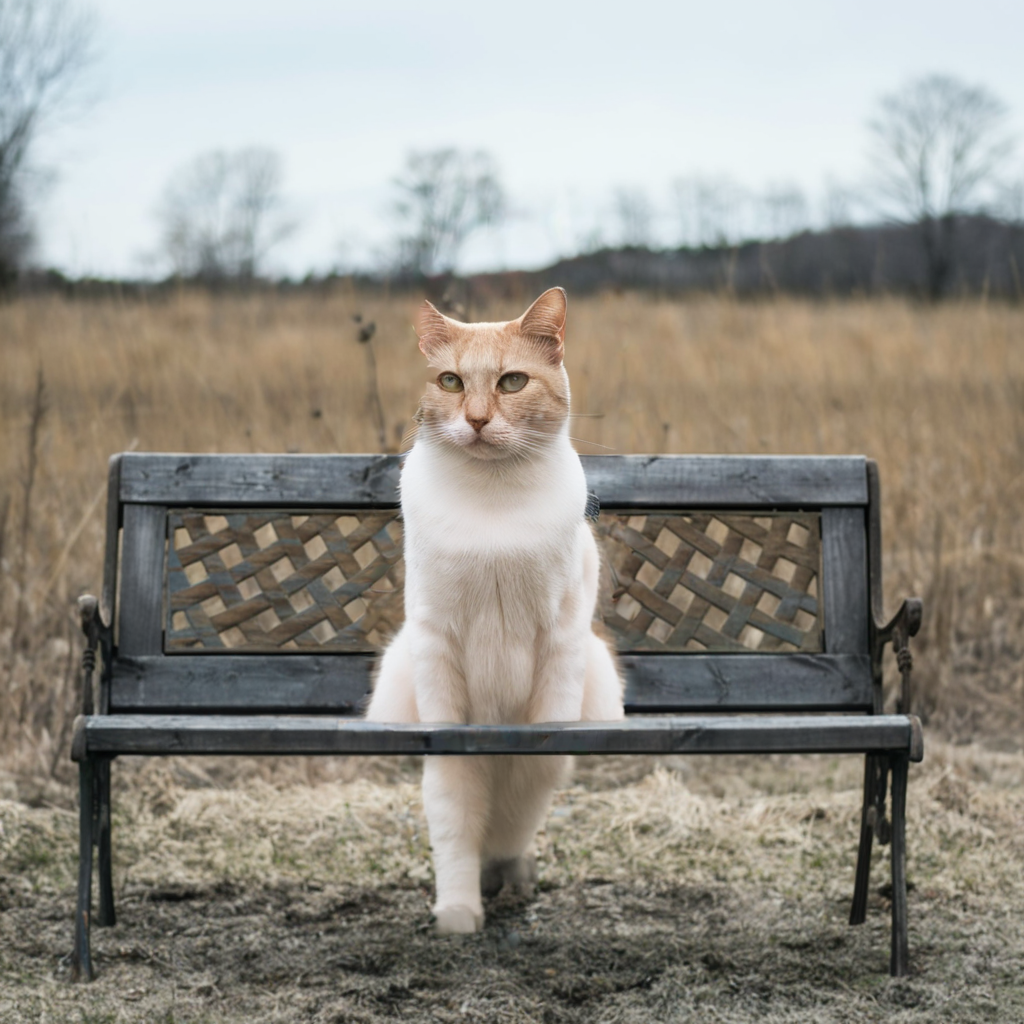
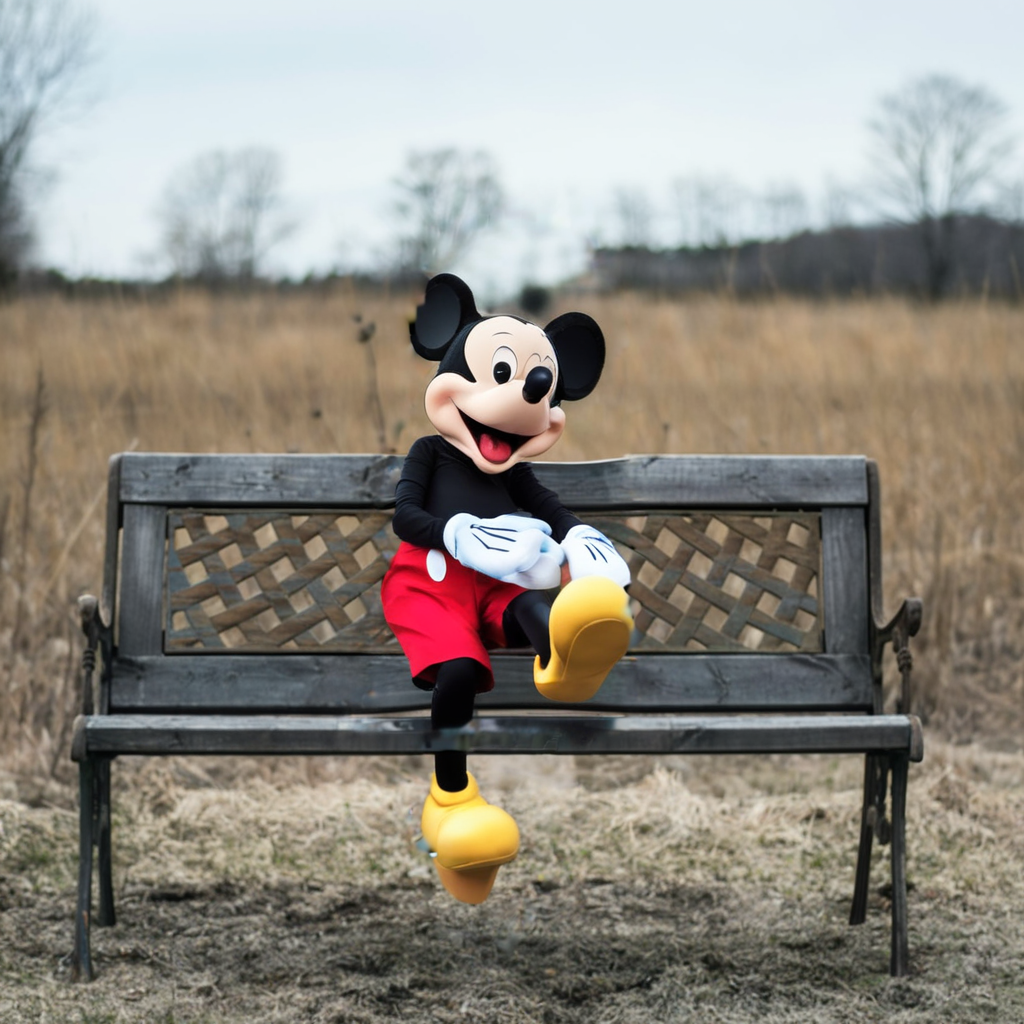
update images

Changed region(s): [[0.3438, 0.2188, 0.625, 0.9375]]

diff --git a/advanced/sdxl/README.md b/advanced/sdxl/README.md
@@ -47,8 +47,8 @@ from leptonai.photon import FileParam
 
 img_url = "https://raw.githubusercontent.com/CompVis/latent-diffusion/main/data/inpainting_examples/overture-creations-5sI6fQgYIuo.png"
 mask_url = "https://raw.githubusercontent.com/CompVis/latent-diffusion/main/data/inpainting_examples/overture-creations-5sI6fQgYIuo_mask.png"
-prompt = "A happy cat sitting on a bench"
-seed = 1234
+prompt = "Mickey mouse sitting on a bench"
+seed = 2236
 
 
 # Directly using urls to pass images
